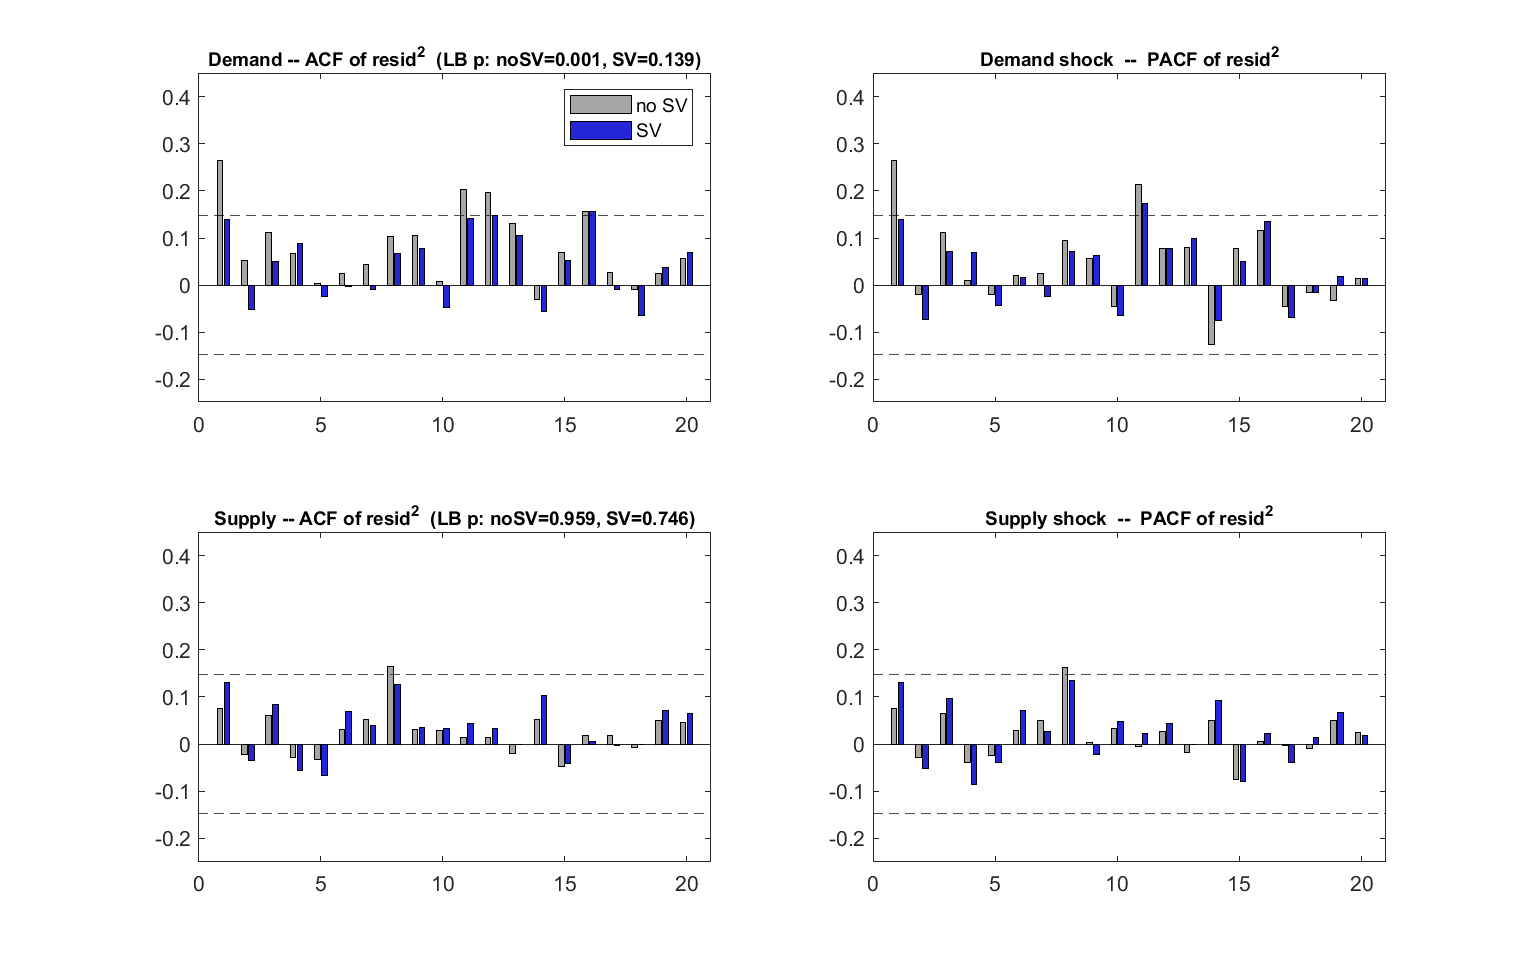
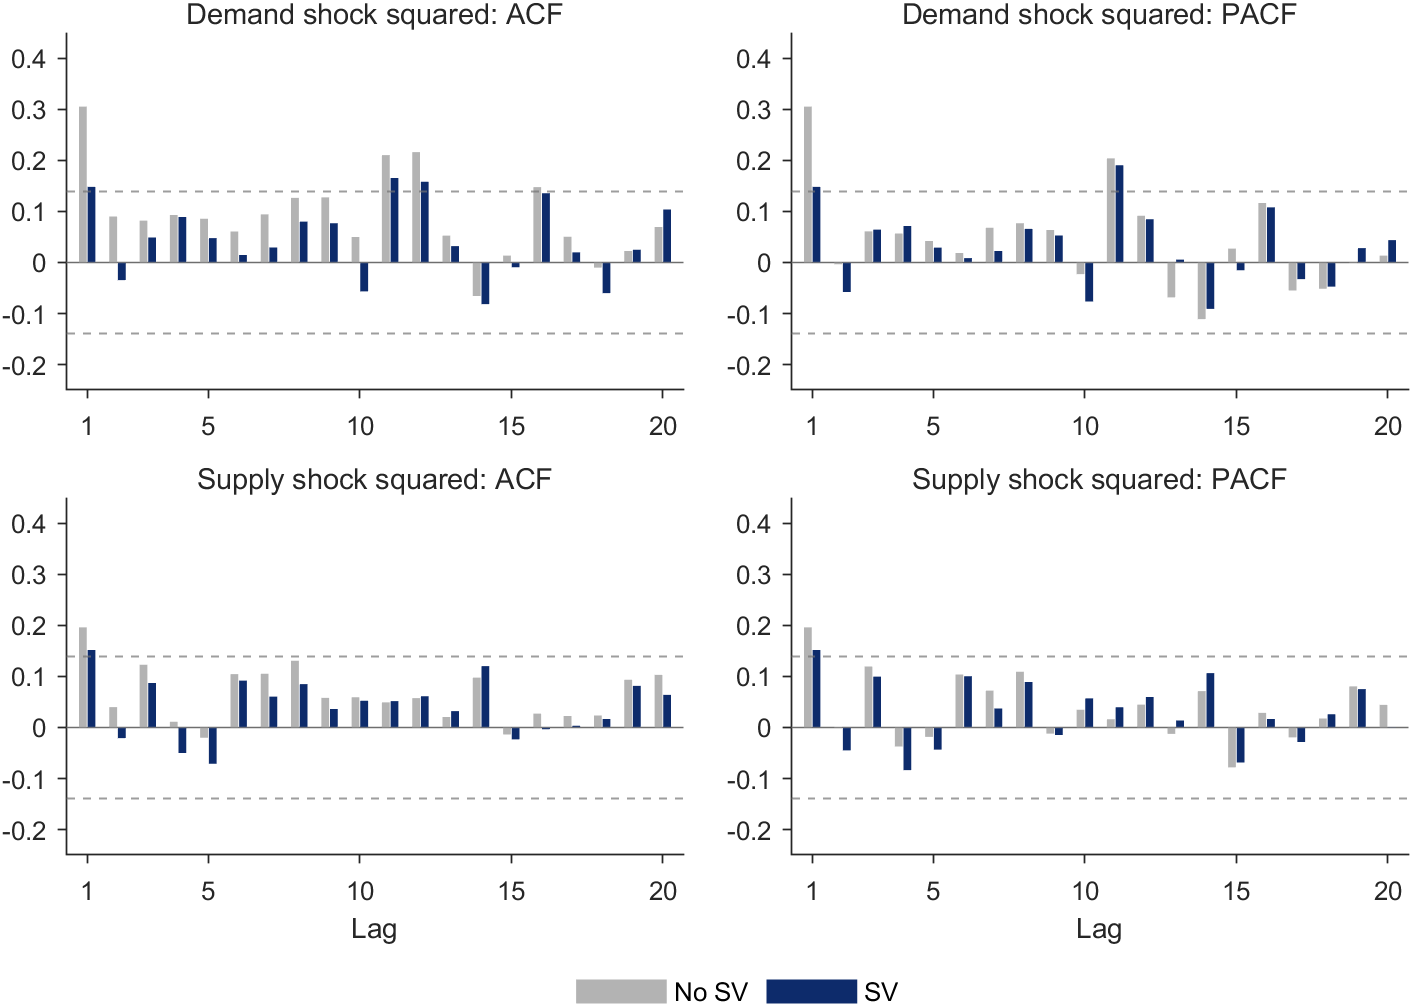
Blog BH15: current FRED data to 2019Q4, formal figures, 4-quarter historical decomposition
Re-estimate on the current FRED vintage (COMPRNFB, PAYEMS), 1970Q1-2019Q4.
Restyle all seven figures, add NBER shading and prior densities, compute
the historical decomposition over a 4-quarter window, rewrite the results
and add a note on the data vintage.

diff --git a/_posts/2026-10-03-stochastic-volatility-baumeister-hamilton.md b/_posts/2026-10-03-stochastic-volatility-baumeister-hamilton.md
@@ -1,6 +1,6 @@
 ---
 title: "Stochastic volatility in the Baumeister–Hamilton SVAR"
-excerpt: "Adding a single common stochastic-volatility factor to the Baumeister–Hamilton (2015) structural VAR keeps its conjugate structure, given the volatility path. It brings no new identification, but it more than halves the uncertainty about the labor-supply elasticity and makes the size of shocks depend on the state of the cycle."
+excerpt: "Adding a single common stochastic-volatility factor to the Baumeister–Hamilton (2015) structural VAR keeps its conjugate structure, given the volatility path. It brings no new identification and, on current US labor-market data, no gain in precision, but it measures the volatility path and makes the size of shocks depend on the state of the economy."
 date: 2026-10-03
 written: 2026-06-03
 mathjax: true
@@ -16,7 +16,7 @@ The BH15 baseline is homoskedastic, yet time-varying volatility is one of the mo
 
 - Conditional on the volatility path, the conjugacy at the heart of BH15 survives unchanged, so the sampler only gains two blocks.
 - A single common factor brings no new identifying information: identification still rests entirely on the prior.
-- It still pays off. In the US labor market it more than halves the uncertainty about the labor-supply elasticity and time-varying volatility means that a one-standard-deviation shock in 2009 moves employment 1.8 times as much as one in 1995.
+- On US labor-market data for 1970–2019 it leaves the estimates and their precision essentially unchanged. What it adds is the volatility path itself: a one-standard-deviation shock in 2009 moves employment about twice as much as one in 1995.
 </div>
 
 ## The model
@@ -68,74 +68,77 @@ Setting $$\sigma^2 \to 0$$ freezes $$h_t = 0$$ and recovers the homoskedastic BH
 
 ## Application: the US labor market
 
-I use the BH15 bivariate labor-market model: quarterly growth of real hourly compensation and of employment, eight lags, 1970:Q1–2014:Q2. Labor demand and supply shocks are separated by the BH15 prior, with a downward-sloping demand curve ($$\beta < 0$$) and an upward-sloping supply curve ($$\alpha > 0$$), plus a long-run restriction. The sampler runs 24,000 iterations and keeps the last 12,000.
+I use the BH15 bivariate labor-market model: quarterly growth of real hourly compensation in the nonfarm business sector and of total nonfarm payroll employment, eight lags. Labor demand and supply shocks are separated by the BH15 prior, with a downward-sloping demand curve ($$\beta < 0$$) and an upward-sloping supply curve ($$\alpha > 0$$), plus a long-run restriction. The data are the current FRED vintage (series COMPRNFB and PAYEMS) and the sample is 1970:Q1–2019:Q4. It stops before 2020 because the COVID quarters are outliers of about fifteen standard deviations, which a Gaussian volatility process can only absorb by inflating $$\sigma^2$$ (Carriero, Clark, Marcellino and Mertens, 2024). The sampler runs 24,000 iterations, keeps the last 12,000 and uses every sixth draw.
 
 **The volatility factor.** The common factor recovers the main episodes of US macroeconomic volatility: the Great Inflation, the Great Moderation and the Great Recession (Figure 1).
 
 <figure>
-  <a href="/assets/blog/bh15-sv/volatility-factor.png"><img src="/assets/blog/bh15-sv/volatility-factor.png" alt="Posterior median and 68% band of the common volatility factor, 1970 to 2014"></a>
-  <figcaption><strong>Figure 1. Common volatility factor</strong> \(e^{h_t/2}\), median and 68% band. Peaks in 1975 and 1980, below one after 1984 with a trough around 0.73 in the mid-1990s, and a peak around 1.37 in 2008–09. Posterior means: \(\phi \approx 0.91\), \(\sigma^2 \approx 0.04\).</figcaption>
+  <a href="/assets/blog/bh15-sv/volatility-factor.png"><img src="/assets/blog/bh15-sv/volatility-factor.png" alt="Posterior median, 68% and 90% bands of the common volatility factor, 1970 to 2019"></a>
+  <figcaption><strong>Figure 1. Common volatility factor</strong> \(e^{h_t/2}\), posterior median with 68% and 90% bands. Grey areas are NBER recessions. Peaks of 1.40 in 1974:Q4 and 1.35 in 1980:Q2, below one from 1984 with a trough of 0.72 in 1996, a peak of 1.45 in 2008:Q4 and a second trough of 0.75 in 2017. Posterior means: \(\phi \approx 0.92\), \(\sigma^2 \approx 0.04\).</figcaption>
 </figure>
 
-**Precision.** The point estimates of the elasticities barely move, as expected when identification is unchanged, but the supply elasticity is estimated far more precisely: its posterior standard deviation falls from 0.26 to 0.11, and the upper end of its 95% interval drops from 1.12 to 0.48. With stochastic volatility, the variance of the turbulent episodes of 1973–75 and 2008–09 is attributed to $$h_t$$ rather than to a large supply elasticity, and the right tail that the homoskedastic model could not rule out collapses (Figure 2).
+**Elasticities.** Stochastic volatility leaves the posterior of the supply slope unchanged and moves the demand slope slightly towards zero (Figure 2). The supply slope is tightly estimated in both models, far from its prior. The demand slope stays close to its prior, as BH15 find.
 
 | | Demand slope $$\beta$$, no SV | Demand slope $$\beta$$, SV | Supply slope $$\alpha$$, no SV | Supply slope $$\alpha$$, SV |
 |---|---|---|---|---|
-| Median | −1.03 | −1.07 | 0.16 | 0.14 |
-| Std. deviation | 0.62 | 0.67 | 0.26 | 0.11 |
-| 95% interval | [−2.51, −0.11] | [−2.86, −0.25] | [0.06, 1.12] | [0.04, 0.48] |
+| Median | −1.13 | −0.98 | 0.13 | 0.12 |
+| Std. deviation | 0.62 | 0.60 | 0.09 | 0.09 |
+| 95% interval | [−2.93, −0.33] | [−2.90, −0.27] | [0.04, 0.41] | [0.03, 0.41] |
 
 <figure>
-  <a href="/assets/blog/bh15-sv/elasticity-posteriors.png"><img src="/assets/blog/bh15-sv/elasticity-posteriors.png" alt="Posterior histograms of the demand and supply slopes with and without stochastic volatility"></a>
-  <figcaption><strong>Figure 2. Elasticity posteriors</strong> with (blue) and without (grey) stochastic volatility. The demand slope \(\beta\) (left) is essentially the same. The supply slope \(\alpha\) (right) keeps its centre, but stochastic volatility removes the right tail, between 0.5 and 1.4, that the homoskedastic model leaves open.</figcaption>
+  <a href="/assets/blog/bh15-sv/elasticity-posteriors.png"><img src="/assets/blog/bh15-sv/elasticity-posteriors.png" alt="Prior and posterior densities of the demand and supply slopes with and without stochastic volatility"></a>
+  <figcaption><strong>Figure 2. Prior and posterior densities of the elasticities</strong>, with and without stochastic volatility. The prior is the sign-truncated Student-t of BH15.</figcaption>
 </figure>
 
-The variance-decomposition shares barely move. Wage variance is about 88% demand-driven with stochastic volatility and 86% without, and employment variance about 85% and 80% supply-driven, but the 68% bands are about 27% narrower with stochastic volatility.
+The variance-decomposition shares at a four-year horizon do not move either. Wage variance is about 87% demand-driven with stochastic volatility and 88% without, employment variance about 86% and 84% supply-driven, and the 68% bands have the same width.
 
-**Historical decomposition.** Figure 3 compares the contributions of demand and supply shocks to employment in the two models. They share the same broad shape: supply shocks drive the build-up of employment through the 1980s and 1990s and its fall after 2008. With stochastic volatility, however, both contributions are somewhat lower, especially from the late 1990s on, and the post-2008 fall in the supply contribution is much sharper, to about −7 by 2010 against about −1 without stochastic volatility. On average, the stochastic-volatility bands are about 13% narrower.
+**Historical decomposition.** Figures 3 and 4 show the contribution of each shock to the four-quarter growth of employment and wages. Summing the contributions over a four-quarter window, rather than cumulating them from 1970, keeps the uncertainty of the contributions from accumulating over the sample. Supply shocks account for the falls in employment growth in every recession: about −3.3 percentage points in 1975, −3.4 in 1982, −2.0 in 1991, −2.8 in 2001 and −5.8 in 2009. Demand shocks contribute less than two points in either direction. The two models give almost the same medians. The bands are 5% narrower with stochastic volatility for employment and 10% wider for wages.
 
 <figure>
-  <a href="/assets/blog/bh15-sv/historical-decomposition.png"><img src="/assets/blog/bh15-sv/historical-decomposition.png" alt="Historical decomposition of employment into demand and supply contributions, with and without stochastic volatility"></a>
-  <figcaption><strong>Figure 3. Historical decomposition of employment</strong>: contributions of demand shocks (left) and supply shocks (right), with and without stochastic volatility. Shaded areas are 68% bands.</figcaption>
+  <a href="/assets/blog/bh15-sv/historical-decomposition.png"><img src="/assets/blog/bh15-sv/historical-decomposition.png" alt="Contributions of demand and supply shocks to four-quarter employment growth, with and without stochastic volatility"></a>
+  <figcaption><strong>Figure 3. Historical decomposition of employment</strong>: contributions of demand shocks (left) and supply shocks (right) to four-quarter employment growth, with and without stochastic volatility. Bands are 68% intervals, and grey areas are NBER recessions.</figcaption>
 </figure>
 
-For wages (Figure 4), demand shocks are the main driver in both models. With stochastic volatility their contribution turns negative after 2008, to about −2.7 by 2010 and −4.8 by 2014, against about 1.1 and zero without it. Unlike for employment, the bands are not narrower: on average they are as wide as without stochastic volatility.
+Wage growth is driven mostly by demand shocks, with swings of up to about 3.5 points (Figure 4). In recessions supply shocks push wages up, by about 2.7 points in 2009:Q2, the mirror image of their negative contribution to employment.
 
 <figure>
-  <a href="/assets/blog/bh15-sv/historical-decomposition-wages.png"><img src="/assets/blog/bh15-sv/historical-decomposition-wages.png" alt="Historical decomposition of wages into demand and supply contributions, with and without stochastic volatility"></a>
-  <figcaption><strong>Figure 4. Historical decomposition of wages</strong>: contributions of demand shocks (left) and supply shocks (right), with and without stochastic volatility. Shaded areas are 68% bands.</figcaption>
+  <a href="/assets/blog/bh15-sv/historical-decomposition-wages.png"><img src="/assets/blog/bh15-sv/historical-decomposition-wages.png" alt="Contributions of demand and supply shocks to four-quarter wage growth, with and without stochastic volatility"></a>
+  <figcaption><strong>Figure 4. Historical decomposition of wages</strong>: contributions of demand shocks (left) and supply shocks (right) to four-quarter wage growth, with and without stochastic volatility. Bands are 68% intervals, and grey areas are NBER recessions.</figcaption>
 </figure>
 
-**Unit responses.** Responses to a unit structural shock line up on impact, where they depend only on $$A$$ (Figure 5). At longer horizons they also depend on the lag coefficients, which stochastic volatility estimates by GLS, so the two models drift apart somewhat. The shapes and signs are the same and the bands overlap.
+**Unit responses.** On impact, the response to a unit structural shock depends only on $$A$$, so the two models differ as much as their posteriors of $$A$$ do: the impact response of wages to a demand shock is 0.91 with stochastic volatility and 0.80 without (Figure 5). At longer horizons the responses also depend on the lag coefficients, which stochastic volatility estimates by GLS. The shapes and signs are the same and the bands overlap. For wages the stochastic-volatility bands are wider.
 
 <figure>
   <a href="/assets/blog/bh15-sv/unit-irfs.png"><img src="/assets/blog/bh15-sv/unit-irfs.png" alt="Responses of wages and employment to unit demand and supply shocks, with and without stochastic volatility"></a>
-  <figcaption><strong>Figure 5. Responses to a unit structural shock</strong>, cumulated to levels, with and without stochastic volatility. Shaded areas are 68% bands. Impact responses coincide, and differences at longer horizons come from the lag coefficients.</figcaption>
+  <figcaption><strong>Figure 5. Responses to a unit structural shock</strong>, cumulated to levels, with and without stochastic volatility. Bands are 68% intervals.</figcaption>
 </figure>
 
-**State dependence.** A one-standard-deviation shock has size $$\sqrt{d_{ii}}\, e^{h_t/2}$$, so its impulse response is the unit response scaled by the volatility of the moment. A shock in 2009 moves employment about 1.8 times as much as one in 1995, the ratio of the median volatility factor in the two years, 1.35 against 0.75 (Figure 6). The homoskedastic model has a single one-standard-deviation response. Stochastic volatility replaces it with a family that breathes with the cycle.
+**State dependence.** A one-standard-deviation shock has size $$\sqrt{d_{ii}}\, e^{h_t/2}$$, so its impulse response is the unit response scaled by the volatility of the moment. A shock in 2009 moves employment about twice as much as one in 1995, the ratio of the median volatility factor in the two years, 1.44 against 0.73 (Figure 6). The homoskedastic model has a single one-standard-deviation response.
 
 <figure>
   <a href="/assets/blog/bh15-sv/one-sd-employment.png"><img src="/assets/blog/bh15-sv/one-sd-employment.png" alt="Employment responses to one-standard-deviation demand and supply shocks in 2009 and in 1995"></a>
-  <figcaption><strong>Figure 6. One-standard-deviation responses of employment</strong> to a demand shock (left) and a supply shock (right), dated 2009 (red, high volatility) and 1995 (blue, low volatility). Same shape, but the 2009 response is about 1.8 times larger.</figcaption>
+  <figcaption><strong>Figure 6. One-standard-deviation responses of employment</strong> to a demand shock (left) and a supply shock (right), dated 2009 (high volatility) and 1995 (low volatility). Bands are 68% intervals.</figcaption>
 </figure>
 
-**Where the volatility lives.** Under homoskedasticity, the squared demand shocks are autocorrelated, the hallmark of volatility clustering: the first-order autocorrelation is 0.26 and the Ljung–Box p-value 0.001 (Figure 7). After standardizing by the volatility factor, the autocorrelation falls to 0.14 and the p-value rises to 0.14. The supply shock shows no clustering in either model. The time-varying volatility sits in the demand shock, which is also the dominant driver of wages.
+**Where the volatility lives.** Under homoskedasticity, the squared demand shocks are autocorrelated, the hallmark of volatility clustering: the first-order autocorrelation is 0.31 and the Ljung–Box p-value at 20 lags is below 0.001 (Figure 7). After standardizing by the volatility factor, the autocorrelation falls to 0.15 and the p-value rises to 0.05. Spikes at lags 11 and 12 remain in both models. For the supply shock the evidence of clustering is weaker, with a p-value of 0.08, and it disappears with stochastic volatility (0.45).
 
 <figure>
   <a href="/assets/blog/bh15-sv/acf-squared-shocks.png"><img src="/assets/blog/bh15-sv/acf-squared-shocks.png" alt="Autocorrelation and partial autocorrelation of the squared demand and supply shocks, with and without stochastic volatility"></a>
-  <figcaption><strong>Figure 7. Autocorrelation (left) and partial autocorrelation (right) of the squared structural shocks</strong>, for the demand shock (top) and the supply shock (bottom), with and without stochastic volatility. Dashed lines mark the \(\pm 1.96/\sqrt{T}\) bounds, and the panel titles report Ljung–Box p-values.</figcaption>
+  <figcaption><strong>Figure 7. Autocorrelation (left) and partial autocorrelation (right) of the squared structural shocks</strong>, for the demand shock (top) and the supply shock (bottom), with and without stochastic volatility. Dashed lines mark the \(\pm 1.96/\sqrt{T}\) bounds. Ljung–Box p-values at 20 lags: demand below 0.001 without and 0.05 with stochastic volatility, supply 0.08 and 0.45.</figcaption>
 </figure>
+
+**A note on the data vintage.** A first version of this note used the BH15 data, which end in 2014:Q2. With that vintage, stochastic volatility cut the posterior standard deviation of $$\alpha$$ from 0.26 to 0.11 by removing a right tail between 0.5 and 1.4. With the current vintage of the same series over the same period, that tail is much thinner in the homoskedastic model (the upper end of the 95% interval is 0.65 instead of 1.12) and stochastic volatility barely changes it (0.15 against 0.14). The precision gain came from the data vintage, not from the model.
 
 ## Takeaways
 
-A single common volatility factor is a cheap, clean addition to BH15. Given the volatility path the conjugate sampler is unchanged, and one extra block delivers the volatility. It does not relax the identification problem, but it pays off twice: in efficiency, by attributing crisis-era variance to $$h_t$$ rather than to the structural parameters, and in state dependence, since the size of shocks now moves with the cycle.
+A single common volatility factor is a cheap addition to BH15. Given the volatility path the conjugate sampler is unchanged, and one extra block delivers the volatility. It does not relax the identification problem, and on current data it does not sharpen the estimates of the elasticities, the variance decomposition or the historical decomposition either. What it adds is a measured volatility path and shock sizes that move with the state of the economy.
 
-It also leaves something on the table. The clustering lives in the demand shock alone, so a shock-specific volatility $$h_{it}$$ would let relative variances move over time. That would deliver identification through heteroskedasticity on top of the BH15 prior and let the variance shares change over time, which is the natural next step.
+It also leaves something on the table. The clustering lives mainly in the demand shock, so a shock-specific volatility $$h_{it}$$ would let relative variances move over time. That would deliver identification through heteroskedasticity on top of the BH15 prior. Extending the sample beyond 2019 requires, in addition, a treatment of the COVID outliers.
 
 ## References
 
 - Baumeister, C. and J. D. Hamilton (2015). Sign restrictions, structural vector autoregressions, and useful prior information. *Econometrica*, 83(5), 1963–1999.
+- Carriero, A., T. E. Clark, M. Marcellino and E. Mertens (2024). Addressing COVID-19 outliers in BVARs with stochastic volatility. *Review of Economics and Statistics*, 106(5), 1403–1417.
 - Kim, S., N. Shephard and S. Chib (1998). Stochastic volatility: likelihood inference and comparison with ARCH models. *Review of Economic Studies*, 65(3), 361–393.
 - Lanne, M., H. Lütkepohl and K. Maciejowska (2010). Structural vector autoregressions with Markov switching. *Journal of Economic Dynamics and Control*, 34(2), 121–131.
 - Lewis, D. J. (2021). Identifying shocks via time-varying volatility. *Review of Economic Studies*, 88(6), 3086–3124.
